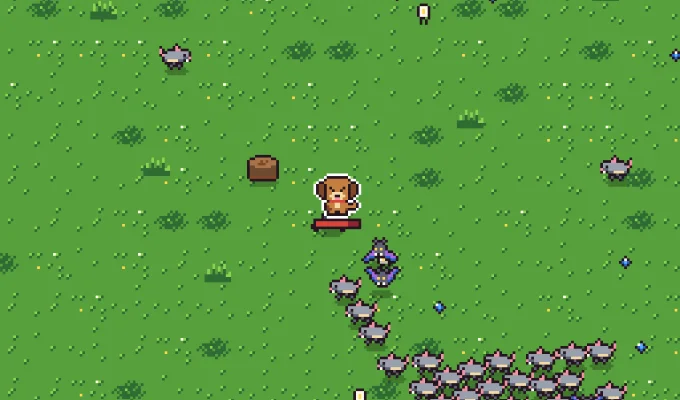
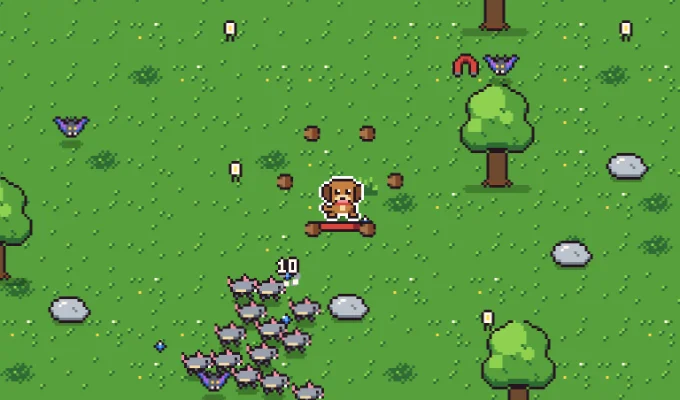
Retake the Animal Survivors thumbnail before the first boss warning

diff --git a/scripts/thumbs/scenes.ts b/scripts/thumbs/scenes.ts
@@ -210,7 +210,7 @@ export const SCENES: Scene[] = [
     }
   },
   {
-    // 犬で 2 分ほど大きな円をゆっくり描いて敵を引き連れ、骨と羽根が飛びかうところ。3 択は 1 枚目を選び、最後は指を離してスティックを消す
+    // 犬で 1 分 40 秒ほど大きな円をゆっくり描いて敵を引き連れ、骨と羽根が飛びかうところ（2:00 のボスの WARNING の前で止める）。3 択は 1 枚目を選び、最後は指を離してスティックを消す
     id: 'animal-survivors',
     clip: band(290),
     play: async (s) => {
@@ -227,11 +227,18 @@ export const SCENES: Scene[] = [
         await s.wait(300);
       }
       await s.touch(1, 'down', 384, 700);
-      for (let i = 0; i < 120; i++) {
+      for (let i = 0; i < 100; i++) {
         const card = s.page.locator('[aria-label="レベルアップ"] .as-card').first();
         if (await card.count()) await card.dispatchEvent('click');
         await s.touch(1, 'move', 384 + Math.cos(i * 0.25) * 80, 700 + Math.sin(i * 0.25) * 80);
         await s.wait(1000);
+      }
+      // 最後のコマに 3 択が残らないよう閉じる（出た直後の 350ms は押せないので待ってから）
+      for (let k = 0; k < 6; k++) {
+        const card = s.page.locator('[aria-label="レベルアップ"] .as-card').first();
+        if (!(await card.count())) break;
+        await s.wait(400);
+        await card.dispatchEvent('click');
       }
       await s.touch(1, 'up', 384, 700);
       await s.wait(500);
